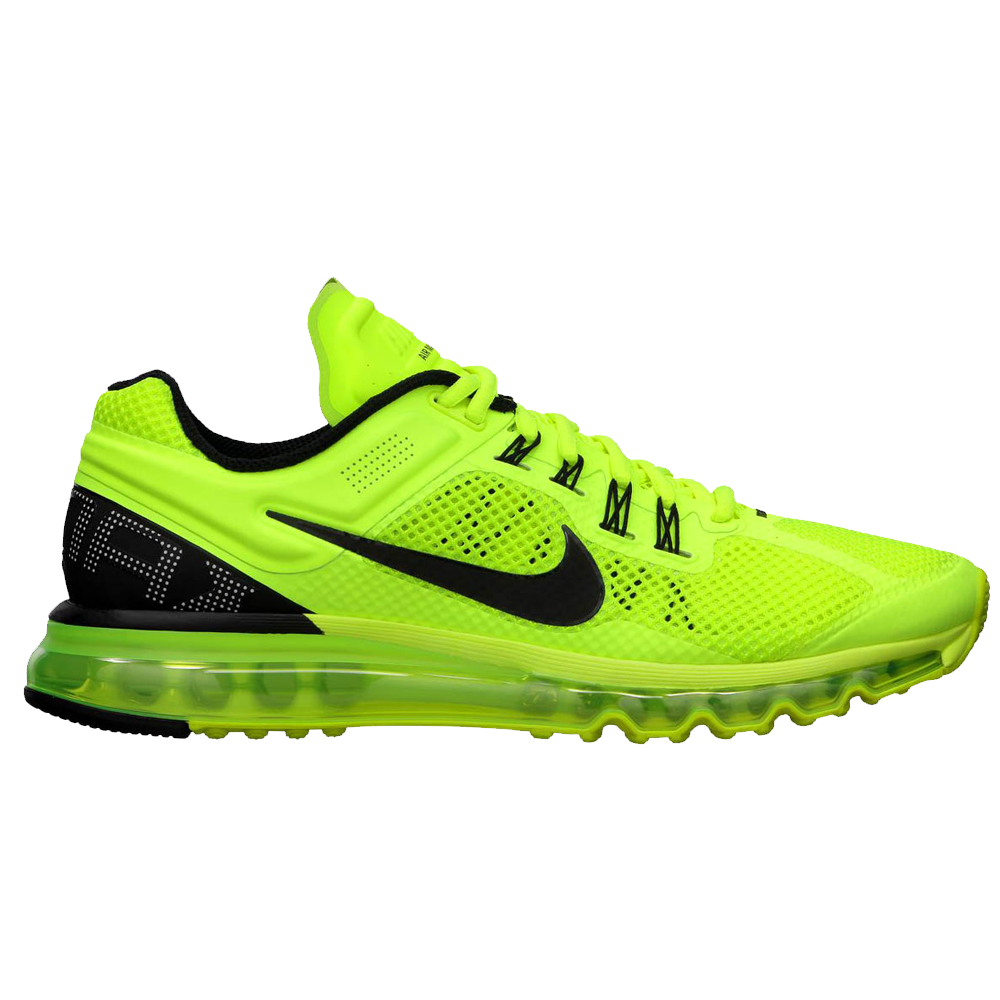
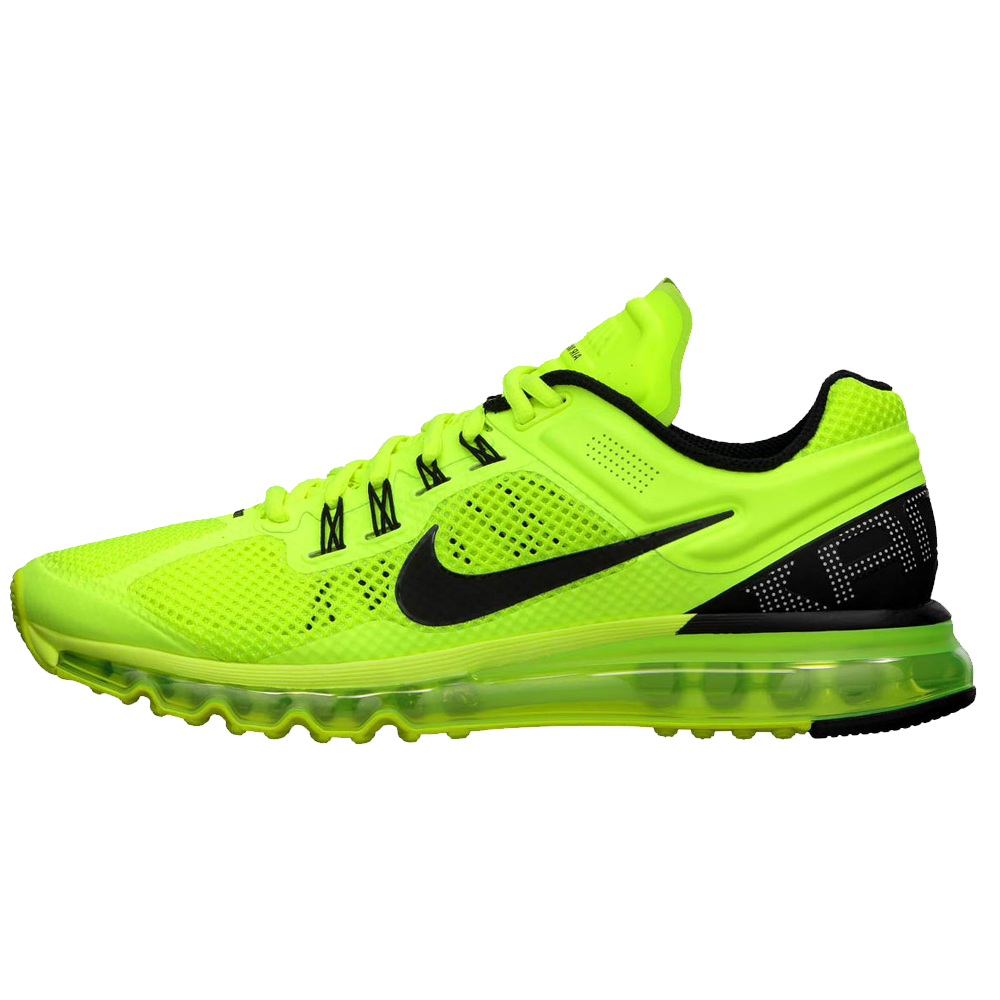
basic conf added

Changed region(s): [[0.0, 0.279, 0.992, 0.744]]

diff --git a/style1.css b/style1.css
@@ -49,7 +49,7 @@ body {
 .container .card .imgBx {
   position: absolute;
   top: 50%;
-  transform: translateY(-50%);
+  transform: translateY(50%);
   z-index: 10000;
   width: 100%;
   height: 220%;
@@ -62,9 +62,9 @@ body {
 }
 .container .card .imgBx img {
   position: absolute;
-  top: 14%;
-  left: -38%;
-  transform: translate(50%, -50%) rotate(-25deg);
+  top: 11%;
+  left: -33%;
+  transform: translate(50%, -50%) rotate(-30deg);
   width: 270px;
 }
 .container .card .contentBx {
